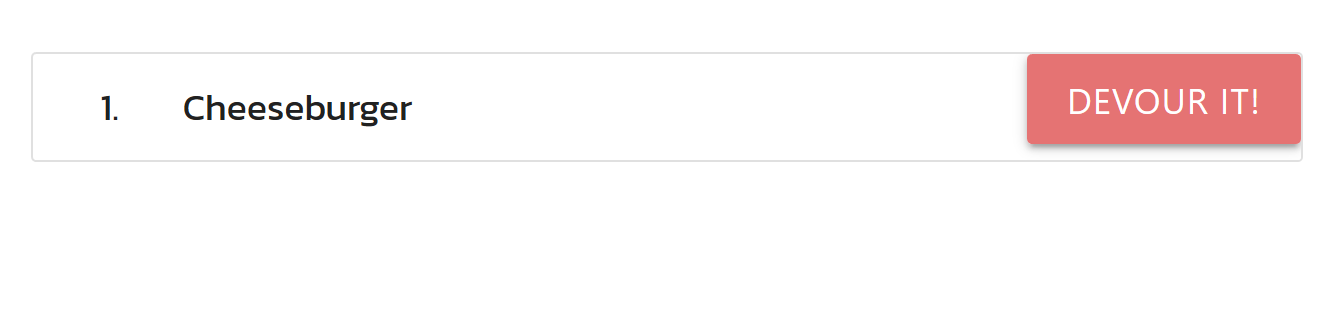
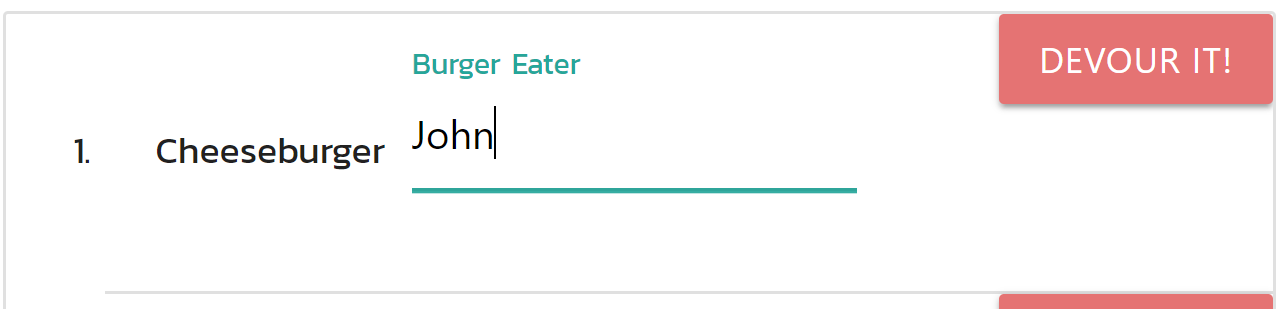
updated README with new images

diff --git a/README.md b/README.md
@@ -24,5 +24,14 @@ The Eat Da Burger process is broken up into two steps:
 ![Eat a burger](public/assets/img/burger-devour.PNG)
 
 1. Choose a burger to eat.
-2. Click the **Devour It** button to the right of the burger name.
-3. The burger will show up in the greyed out list of eaten burgers. ![Finished burgers](public/assets/img/burger-finished.PNG)
+2. Type in the name of the person eating the burger.
+3. Click the **Devour It** button to the right of the burger name.
+4. The burger will show up in the greyed out list of eaten burgers. ![Finished burgers](public/assets/img/burger-finished.PNG)
+
+### Add an Eater
+
+![Add an eater](public/assets/img/burger-eater.PNG)
+
+1. Go to [the Eaters page](https://fast-inlet-22337.herokuapp.com/eaters).
+2. Enter the name of the Eater.
+3. Click **Submit** to add the person to the list of Eaters.
